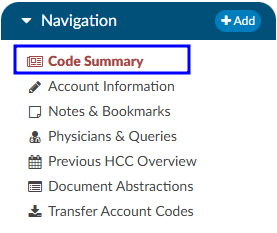
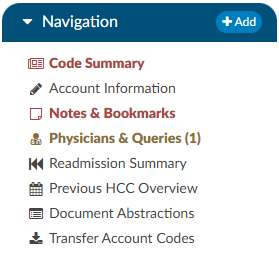
Updating Colors and Symbols

Changed region(s): [[0.0, 0.0, 1.0, 0.9614], [0.0578, 0.0601, 0.1155, 0.1202]]

diff --git a/content/general-user-guide/colors/_index.md b/content/general-user-guide/colors/_index.md
@@ -12,17 +12,6 @@ The viewer name will turn red to alert the user that action is needed.
 
 ![Viewer Turned Red](RedViewer.png)
 
-
-### Physicians & Queries
-
-![Highlighted Physicians & Queries](PhysiciansQueriesHighlighted.png)
-
-The "Physicians & Queries" viewer will be highlighted with an amber background in the
-Navigation Tree if the account has at least one physician query.
-
->[!note] The amber background does not appear if the "Physician & Queries"
-viewer is selected because the "selected" background overrides the amber background.
-
 ### Code Summary
 
 |Symbol/Color   |Meaning   |
@@ -38,6 +27,52 @@ viewer is selected because the "selected" background overrides the amber backgro
 **Red**: Validation hard stop used to notify a user that there are things that they need to resolve. It **does** prevent the user from submitting the chart.
 
 **Yellow**: This color is associated with validation soft stop used to notify a user that there may be things that they need to resolve. It **does not** prevent the user from submitting the chart.
+
+### Physicians & Queries
+
+![Highlighted Physicians & Queries](PhysiciansQueriesHighlighted.png)
+
+The "Physicians & Queries" viewer will be highlighted with an amber background in the
+Navigation Tree if the account has at least one physician query.
+
+>[!note] The amber background does not appear if the "Physician & Queries"
+viewer is selected because the "selected" background overrides the amber background.
+
+The viewer will turn brown to indicate there are open queries awaiting a response.
+
+![Open Query](OpenQuery.png)
+
+### Charges
+
+![](image-604.jpg)
+
+**Caution Symbol**: The caution symbol next to the left of the code is a edit that comes from
+the TruCode encoder or add on edits. If you hoover over the caution symbol you can see the
+edit, if you need a larger view of the edit you can open the TruCode research page for
+further details.
+
+### CDI Alerts (Navigation Tree)
+
+![](image-605.jpg)
+
+![](image-606.jpg)
+
+**Paper Icon**: The paper icon allows users to click to enter notes to indicate thoughts on
+the CDI Alert.
+
+For Example, a user may want to indicate they are "Watching the alert because they want to wait for a
+consult to occur the next day to decide if a query is needed."
+
+**Red with Number**: The red indicates that there are "Active CDI Alerts" and the number
+represents to total active alerts.
+
+## Dashboards
+
+![](image-607.jpg)
+
+**Blue Text**: Most of the blue text on the dashboard is a clickable link. When clicked it
+will open a new tab into a pop out with the details behind the number. There are some
+numbers like numbers with a percentage rates or averages that won't yield pop out results.
 
 ## Document Tree
 
@@ -78,104 +113,25 @@ Words/Phrases and Codes can be highlighted in few different colors:
 
 ## Code Tree
 
-![](image-599.jpg)
+|Symbol/Color   |Meaning   |
+|---------------|----------|
+|H Icon|Indicates that the code is a HCC ![Code is a HCC](H.png)|
+|MCC|Indicates that the code is a MCC ![Code is a MCC](mcc.png)|
+|CC|Indicates that the code is a CC ![Code is a CC](CC.png)|
+|HAC|Returned upon computing for the MS-DRG, this indicates that the code is an HAC.|
+|NOR|Indicates the procedure code is a non-OR procedure.
+|Tag|Returned upon computing for the MS-DRG, this indicates that the code is responsible for one of the following quality measures **PSI**, **PDI**, **PC-06** or **Elixhauser**.|
+|Purple Background on **Assigned Codes**|There are more than 25 codes and any code in purple is below the the 25th position. This is important since CMS only accepts 25 diagnosis codes in the event you need to consider resequencing codes that need to be above the 25th position.
+|Exclamation Icon|Will appear on the "show all" tree when a user manually entered this code *and* the system suggested it.
+|Person Icon|A user manually entered this code. It was not suggested by the application. Hovering over the icon will display the user who added it.
+|Caution Symbol|An edit that comes from the TruCode encoder or add on edits. If you hover over the caution symbol you can see the edit. Users needing a larger view of the edit can open the TruCode research page for further details.|
+|Green Flag|In the "Show All" or "Unassigned Code Tree," the presence of a green flag next to a code signifies that there is a comment associated with that particular code. This same flag can also be found alongside the code within a document and in the notes & bookmarks section under the navigation tree within the code comment section.|
+|Pencil Icon|Exclusively available for **non-TruCode** organizations. It allows end users to manually input a code into the encoder using the compute button. This signifies that there is no direct association between the code and any specific location on a document.|
+|Letter Blocks|Indicates the present on admission (POA) status. When clicked the end user can change the status to the following: <ul><li>Y = Yes</li><li>N = No</li><li>U = Undefined</li><li>W = Withdrawal</li><li>E = Exempt</li></ul>|
 
-![](image-600.jpg)
+## Tuning Dashboard
 
-![](image-601.jpg)
-
-**H Icon**: This icon indicates that the code is an HCC.
-
-**MCC**: This indicates that the code is an MCC.
-
-**CC**: This indicates that the code is an CC.
-
-**HAC**: This is returned upon computing for the MS-DRG indicates that the code is an HAC.
-
-**NOR**: This indicates the procedure code is a non-OR procedure.
-
-**Tag**: This is returned upon computing for the MS-DRG indicates that the code is the
-culprit to one of the following quality measures **PSI**, **PDI**, **PC-06** or **Elixhauser**.
-
-**Purple Background on Assigned Codes**: This means that there are more than 25
-codes and any code in purple is below the the 25th position. This is important since CMS
-only accepts 25 diagnosis codes in the event you need to consider resequencing codes
-that need to be above the 25th position.
-
-**Exclamation Icon**: This will appear on the "show all" tree when a user manually entered
-this code and the system suggested it.
-
-**Person Icon**: A user manually entered this code. It was not suggested by the application.
-Hovering over the icon will display the user who added it.
-
-**Caution Symbol**: The caution symbol next to the left of the code is a edit that comes from
-the TruCode encoder or add on edits. If you hoover over the caution symbol you can see the
-edit, if you need a larger view of the edit you can open the TruCode research page for further details.
-
-**Green Flag**: In the "Show All" or "Unassigned Code Tree," the presence of a green flag next to
-a code signifies that there is a comment associated with that particular code. This same flag
-can also be found alongside the code within a document and in the notes & bookmarks section
-under the navigation tree within the code comment section.
-
-**Pencil Icon**: The pencil icon is exclusively available on non- TruCode sites, allowing end
-users to manually input a code into the encoder using the compute button. This signifies
-that there is no direct association between the code and any specific location on a document.
-
-**Letter Blocks**: The letter blocks next to each of the diagnosis codes indicate the present on
-admission (POA) status. When clicked the end user can change the status to the following:
-
-- Y = Yes
-- N = No
-- U = Undefined
-- W = Withdrawal
-- E = Exempt
-
-## Notes & Bookmarks (Navigation Tree)
-
-![](image-602.jpg)
-
-**Red**: The red indicates that there are notes, bookmarks or code comments.
-
-## Physicians & Queries (Navigation Tree)
-
-![](image-603.jpg)
-
-**Red**: The red indicates that there are answered queries awaiting review.
-**Brown**: The brown indicates that there are open queries awaiting an answer
-
-## Charges (Navigation Tree)
-
-![](image-604.jpg)
-
-**Caution Symbol**: The caution symbol next to the left of the code is a edit that comes from
-the TruCode encoder or add on edits. If you hoover over the caution symbol you can see the
-edit, if you need a larger view of the edit you can open the TruCode research page for
-further details.
-
-## CDI Alerts (Navigation Tree)
-
-![](image-605.jpg)
-
-![](image-606.jpg)
-
-**Paper Icon**: The paper icon allows users to click to enter notes to indicate thoughts on
-the CDI Alert.
-
-For Example, a user may want to indicate they are "Watching the alert because they want to wait for a
-consult to occur the next day to decide if a query is needed."
-
-**Red with Number**: The red indicates that there are "Active CDI Alerts" and the number
-represents to total active alerts.
-
-## Dashboards
-
-![](image-607.jpg)
-
-**Blue Text**: Most of the blue text on the dashboard is a clickable link. When clicked it
-will open a new tab into a pop out with the details behind the number. There are some
-numbers like numbers with a percentage rates or averages that won't yield pop out results.
-
-## Tuning Dashboard (Tuning Menu)
+![Tuning Menu](TuningMenu.png)
 
 ![](image-608.jpg)
 
